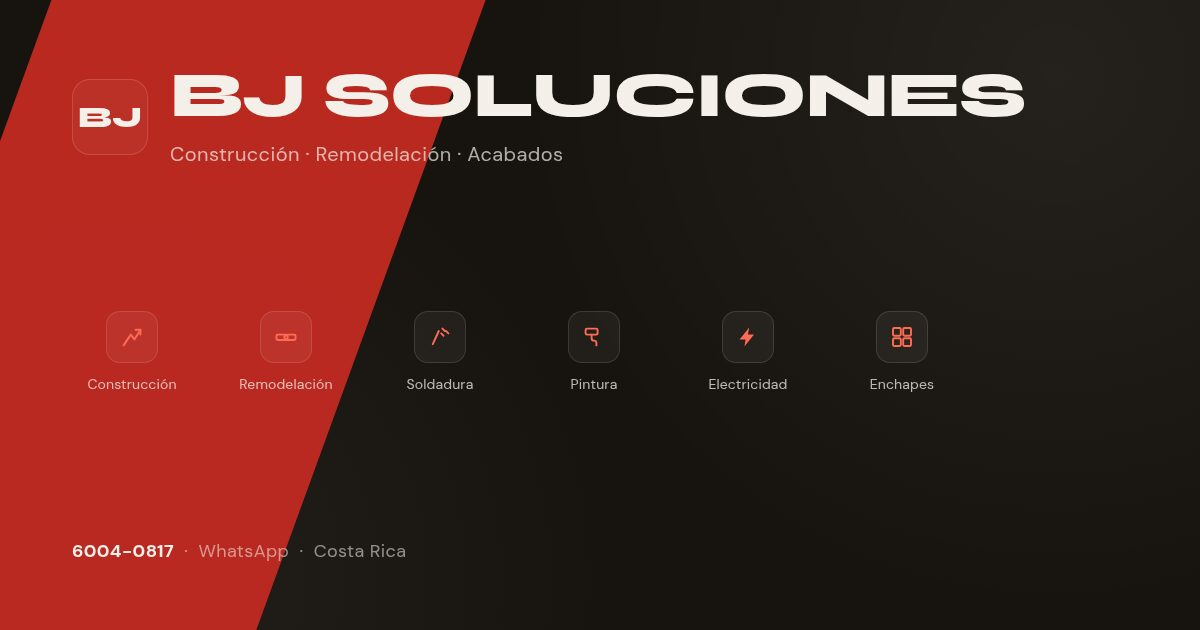
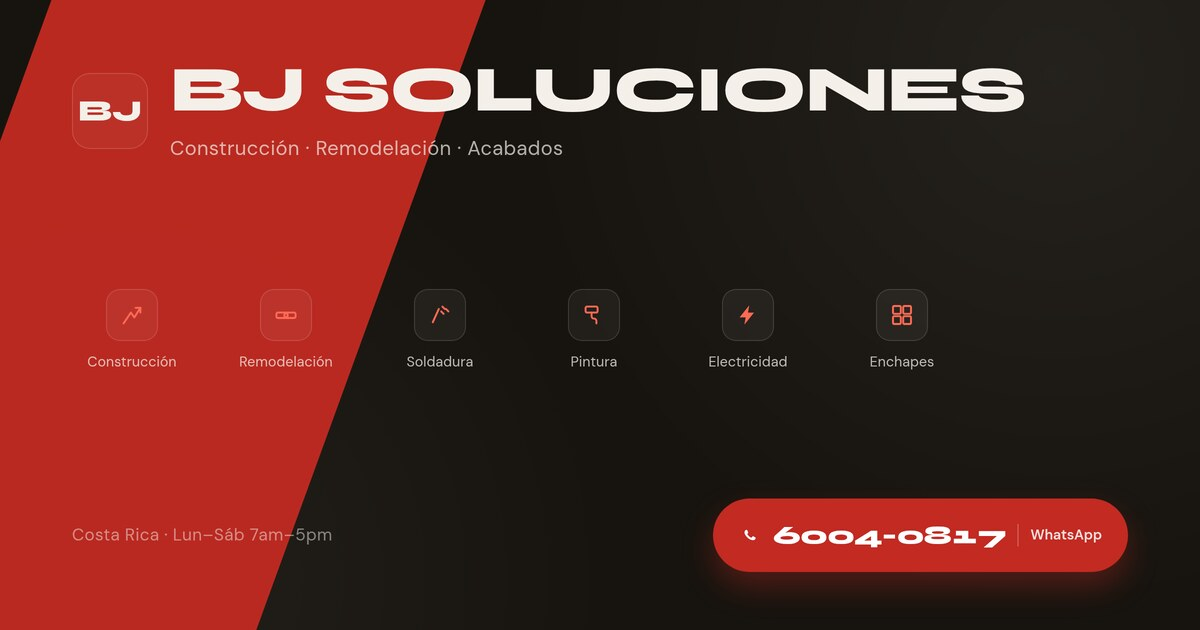
Descartar propuestas de tarjeta/anuncios y mejorar el og-image
Se rechazaron las 3 opciones de tarjeta de presentación y los anuncios;
solo se conserva el logo y la imagen de portada, que ahora tiene mejor
nitidez (render a 2x) y un botón de WhatsApp en vez de texto de contacto
plano. docs/propuestas-marca.md se reduce a docs/marca.md con solo lo
que se mantiene, más instrucciones para forzar el re-scrape en Facebook.

diff --git a/docs/marca.md b/docs/marca.md
@@ -1,0 +1,37 @@
+# Identidad — BJ Soluciones
+
+Logo y vista previa de link ya aplicados al sitio (`index.html`, `public/config.json`).
+Las 3 propuestas de tarjeta de presentación y los 2 anuncios que se habían generado antes
+no se usaron — se descartaron.
+
+## Logo
+
+`public/logo.png` — isotipo cuadrado usado en el header (`config.json` → `"logo"`) y como
+base de `public/favicon.png` / `public/apple-touch-icon.png`.
+
+![Logo mark](./branding/logo-mark.png)
+
+## Vista previa al compartir (og:image)
+
+`public/og-image.jpg` (1200×630), referenciada en `index.html` vía `og:image` / `twitter:image`.
+Es la imagen que WhatsApp/Facebook muestran cuando alguien comparte el link del sitio.
+
+![OG image](./branding/og-image.jpg)
+
+## Cómo forzar que Facebook/WhatsApp muestren la versión nueva
+
+Facebook y WhatsApp cachean la vista previa de un link la primera vez que alguien lo comparte,
+así que aunque el `og:image` cambie en el sitio, quien ya lo compartió puede seguir viendo la
+versión vieja. Para forzar la actualización:
+
+1. Asegurate de que el sitio ya esté desplegado en Netlify con los cambios (hacer `push` y
+   esperar el deploy — sin esto, el paso 2 va a volver a cachear la versión vieja).
+2. Entrá a **Facebook Sharing Debugger**: https://developers.facebook.com/tools/debug/
+3. Pegá la URL del sitio (`https://bj-soluciones.netlify.app` o el dominio final), dale
+   **"Debug"** y luego **"Scrape Again"** (a veces hay que darle dos veces). Eso obliga a
+   Facebook a volver a leer el `og:image`/`og:title` actuales.
+4. Ese mismo scrape normalmente también actualiza la vista previa en **Instagram** y en la
+   mayoría de los chats de **WhatsApp**, porque comparten el mismo crawler de Meta. Si un chat
+   puntual de WhatsApp sigue mostrando la versión vieja, no hay una herramienta pública para
+   forzarlo ahí — se resuelve solo en 24–48h, o compartiendo el link agregando algo al final
+   (ej. `?v=2`) para que WhatsApp lo trate como una URL nueva sin caché.